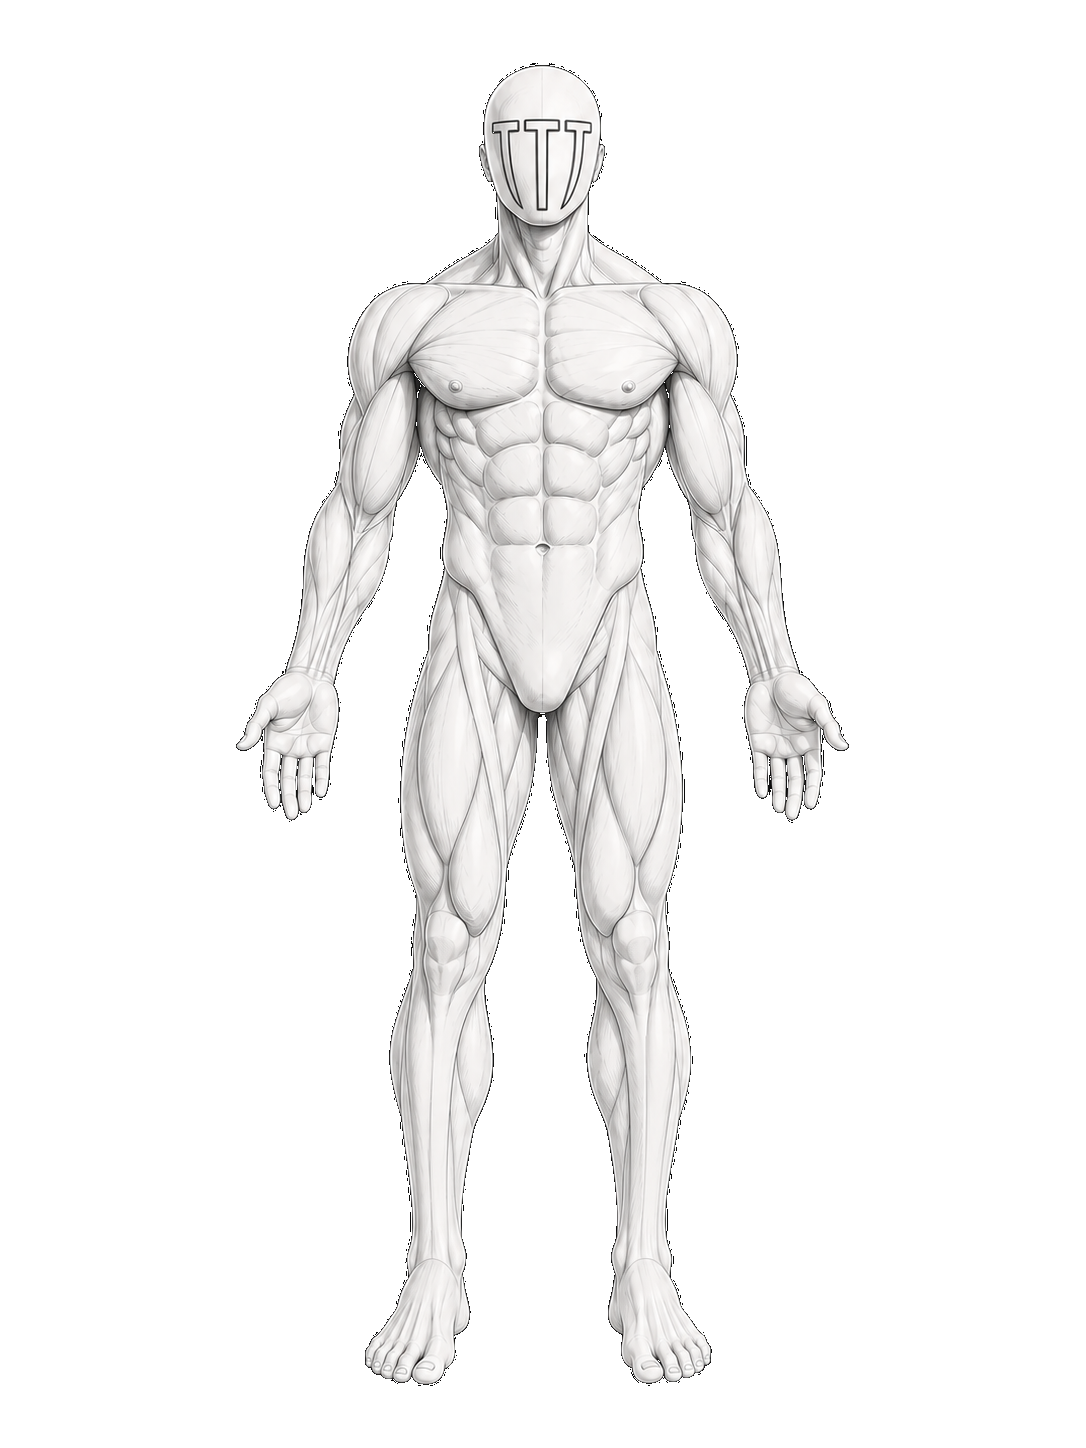
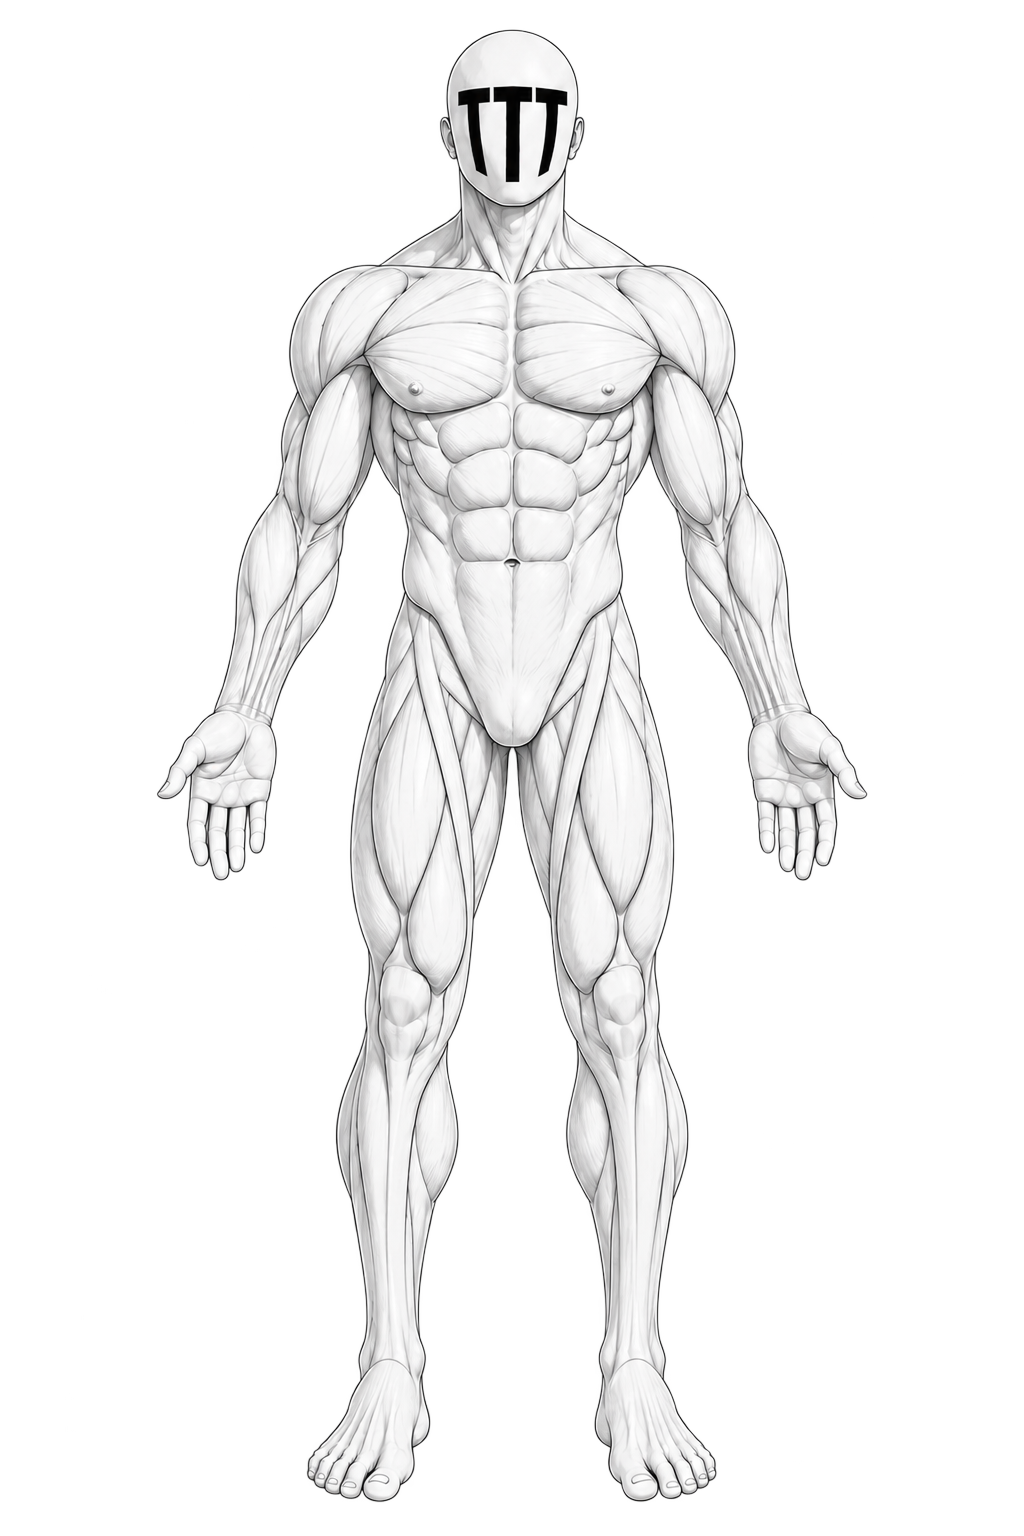
근육부위(정면) 인체 이미지 교체 + 부위 표시 좌표 재조정 (#456)
icons/muscle/front.png를 사용자가 제공한 새 인체 일러스트(투명 배경
컷아웃)로 교체. 새 이미지는 인물이 프레임에서 차지하는 비율이 기존보다
커서(가로 69%/세로 96% vs 기존 56%/91%) 기존 SVG 부위 표시선/점 좌표를
그대로 쓰면 실제 몸 위치에서 벗어나므로, 6개 부위(가슴/어깨/팔/등/하체/
코어) 좌표를 새 이미지 위에서 grid 오버레이로 실측해 재조정. 후면
이미지(back.png)와 해당 좌표는 변경 없음.

Changed region(s): [[0.1562, 0.0311, 0.8438, 0.9945]]

diff --git a/index.html b/index.html
@@ -8298,18 +8298,21 @@ html.light-mode-on #weightModal .food-modal-form label {
 
       <!-- 🔥 부위별 연결선(정면) -->
       <svg class="muscle-finder-lines" id="muscleFinderLinesFront" viewBox="0 0 100 100" preserveAspectRatio="none">
-        <line class="muscle-finder-line" data-part="chest" x1="0" y1="24" x2="38" y2="27"></line>
-        <circle class="muscle-finder-dot" data-part="chest" cx="38" cy="27" r="1"></circle>
-        <line class="muscle-finder-line" data-part="shoulder" x1="100" y1="20" x2="69" y2="21"></line>
-        <circle class="muscle-finder-dot" data-part="shoulder" cx="69" cy="21" r="1"></circle>
-        <line class="muscle-finder-line" data-part="arm" x1="0" y1="42" x2="30" y2="35"></line>
-        <circle class="muscle-finder-dot" data-part="arm" cx="30" cy="35" r="1"></circle>
-        <line class="muscle-finder-line" data-part="back" x1="100" y1="38" x2="68" y2="36"></line>
-        <circle class="muscle-finder-dot" data-part="back" cx="68" cy="36" r="1"></circle>
-        <line class="muscle-finder-line" data-part="lower" x1="0" y1="62" x2="42" y2="60"></line>
-        <circle class="muscle-finder-dot" data-part="lower" cx="42" cy="60" r="1"></circle>
-        <line class="muscle-finder-line" data-part="core" x1="100" y1="56" x2="57" y2="42"></line>
-        <circle class="muscle-finder-dot" data-part="core" cx="57" cy="42" r="1"></circle>
+        <!-- 🔥 front.png 교체(새 인체 이미지)에 맞춰 좌표 재조정 — 새 이미지는 인물이
+             프레임에서 차지하는 비율이 기존보다 커서(가로 69%/세로 96% vs 기존
+             56%/91%), 기존 좌표를 그대로 쓰면 부위 표시점이 실제 몸에서 벗어남 -->
+        <line class="muscle-finder-line" data-part="chest" x1="0" y1="24" x2="40" y2="33"></line>
+        <circle class="muscle-finder-dot" data-part="chest" cx="40" cy="33" r="1"></circle>
+        <line class="muscle-finder-line" data-part="shoulder" x1="100" y1="20" x2="66" y2="30"></line>
+        <circle class="muscle-finder-dot" data-part="shoulder" cx="66" cy="30" r="1"></circle>
+        <line class="muscle-finder-line" data-part="arm" x1="0" y1="42" x2="25" y2="45"></line>
+        <circle class="muscle-finder-dot" data-part="arm" cx="25" cy="45" r="1"></circle>
+        <line class="muscle-finder-line" data-part="back" x1="100" y1="38" x2="67" y2="42"></line>
+        <circle class="muscle-finder-dot" data-part="back" cx="67" cy="42" r="1"></circle>
+        <line class="muscle-finder-line" data-part="lower" x1="0" y1="62" x2="37" y2="72"></line>
+        <circle class="muscle-finder-dot" data-part="lower" cx="37" cy="72" r="1"></circle>
+        <line class="muscle-finder-line" data-part="core" x1="100" y1="56" x2="48" y2="50"></line>
+        <circle class="muscle-finder-dot" data-part="core" cx="48" cy="50" r="1"></circle>
       </svg>
       <!-- 🔥 부위별 연결선(후면) -->
       <svg class="muscle-finder-lines hidden" id="muscleFinderLinesBack" viewBox="0 0 100 100" preserveAspectRatio="none">
@@ -10035,7 +10038,7 @@ const settingsHeaderName = document.getElementById("settingsHeaderName");
 const settingsHeaderSub = document.getElementById("settingsHeaderSub");
 
 /* ✅ 앱 버전 정의 — 의미 있는 수정/배포마다 올림(설정 화면에서 "최신 버전 받았는지" 확인용) */
-const APP_VERSION = "0.8.75";
+const APP_VERSION = "0.8.76";
 const appVersionDisplay = document.getElementById("appVersionDisplay");
 if (appVersionDisplay) {
   appVersionDisplay.textContent = APP_VERSION;
